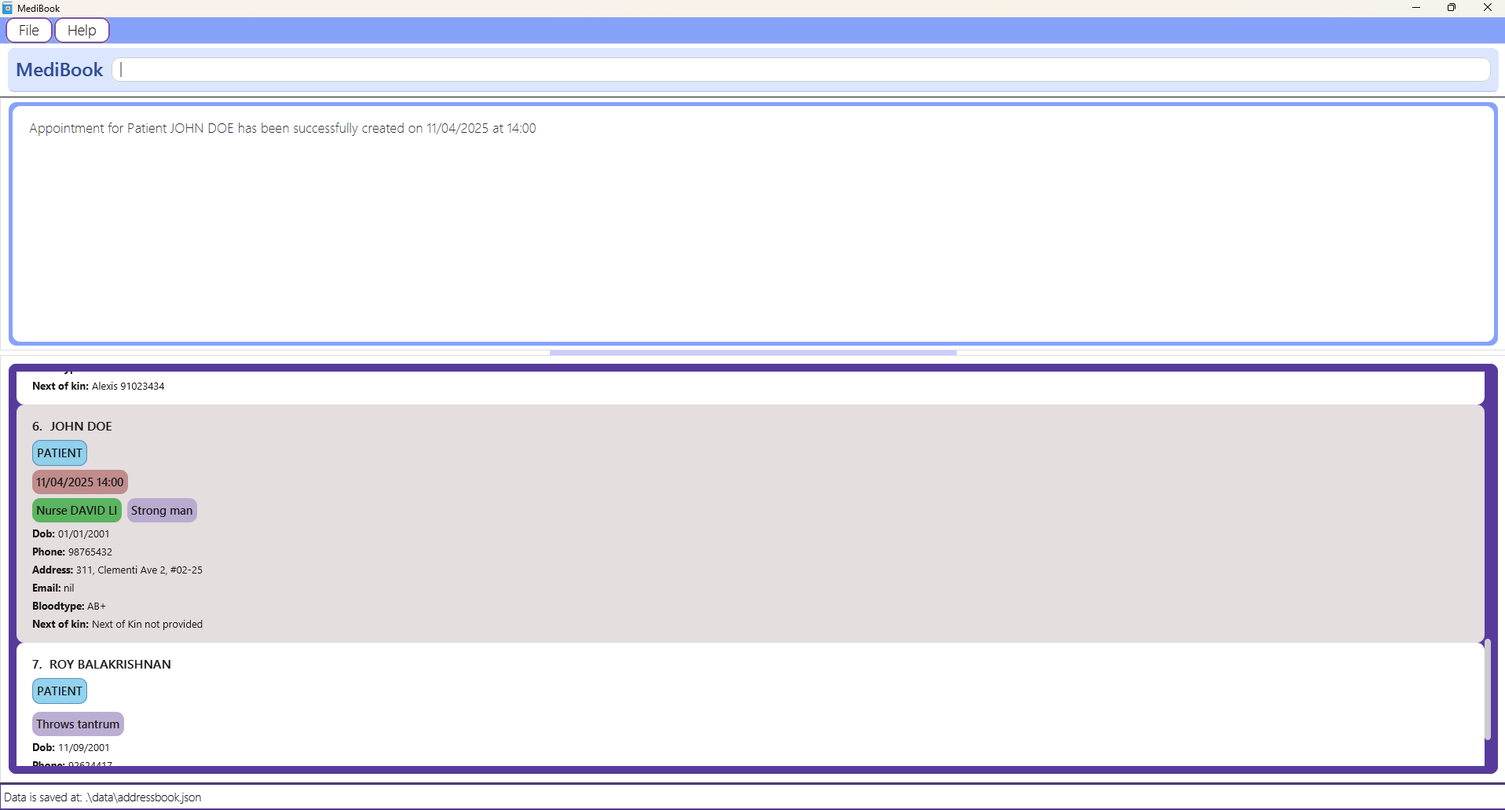
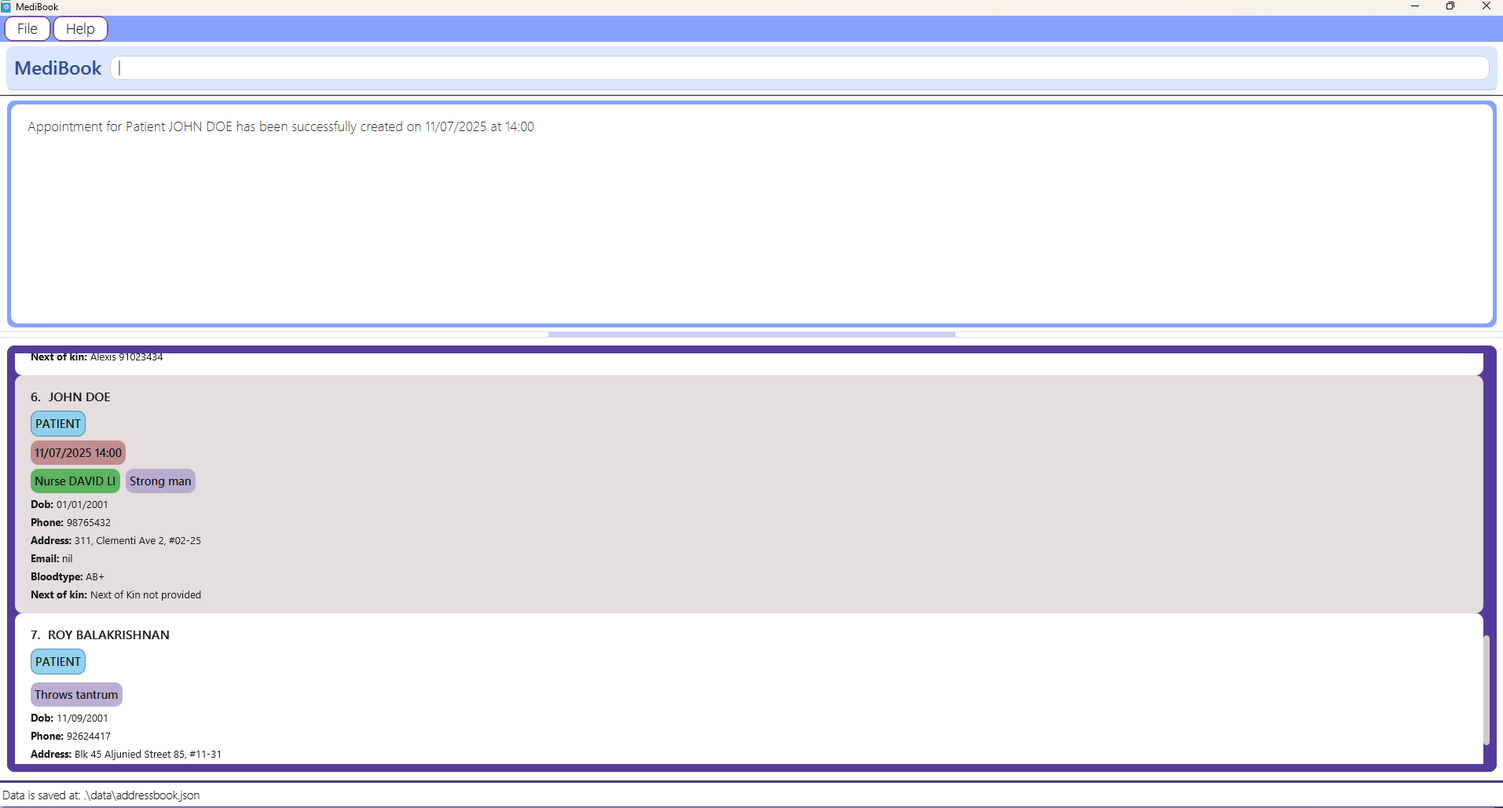
Edit user guide

Changed region(s): [[0.0, 0.3732, 1.0, 1.0], [0.0, 0.0, 1.0, 0.1866], [0.9869, 0.9018, 1.0, 0.9329]]

diff --git a/docs/UserGuide.md b/docs/UserGuide.md
@@ -7,7 +7,7 @@ title: User Guide
 
 MediBook is a **desktop app for private nurse center managers, to manage patient and nurse records, optimized for use via a Command Line Interface (CLI)**, while still offering the benefits of a Graphical User Interface (GUI).
 
-Designed for speed and efficiency, **MediBook** empowers private nurse centres to:
+Designed for speed and efficiency, **MediBook** empowers private nurse managers to:
 - Assign nurses to patients
 - Retrieve patient and nurse information
 - Manage checkup sessions and medical history of patients
@@ -17,6 +17,10 @@ All within a user-friendly interface that is faster than traditional pen-and-pap
 ## Using this User Guide
 
 This user guide is designed to help you get started with **MediBook**, and to provide a simple and concise reference if you need any help while using the app. You may click on the words in blue to jump directly to the relevant section of the user guide.
+
+> ⚠ **Note:** The word `person` in this user guide refers to both patients and nurses, unless otherwise specified.
+
+> 💡**Tip**: If this is your **first time** using Medibook, we recommend running the command `list` before and after running any commands to get the desired output.
 
 To get an overview of the guide, you can refer to the [Table of contents](#table-of-contents) below.
 
@@ -91,34 +95,37 @@ To get an overview of the guide, you can refer to the [Table of contents](#table
 <span style="display: block; text-align: center; margin: 0;">MediBook Start-Up Graphical User Interface</span>
 
 
-5. Type the command in the command box and press Enter to execute it. e.g. typing **`help`** and pressing Enter will open the help window.<br>
+5. Type the command in the command box and press Enter to run it. e.g. typing **`help`** and pressing Enter will open the help window.<br>
    Some example commands you can try:
 
-   * `list` : Lists all contacts.
+   * `help` : Opens the help window.
 
-   * `add n/John Doe dob/01/01/2001 p/98765432 e/johnd@example.com a/311, Clementi Ave 2, #02-25 b/AB+ ap/Patient nok/Jane 91234567 t/Big Boy mh/High Blood Pressure` : Adds a contact named `John Doe` to MediBook.
+   * `add n/John Doe dob/01/01/2001 p/98765432 a/311, Clementi Ave 2, #02-25 b/AB+ ap/Patient t/Strong man` : Adds a person named `John Doe` to MediBook.
 
-   * `edit 2 b/O+` : Edits the blood type of the 2nd contact shown in the current list to O+.
+   * `list` : Lists all persons in MediBook.
 
-   * `delete 3` : Deletes the 3rd contact shown in the current list.
+   * `edit 1 p/8549 9584 b/O+` : Edits the phone number and blood type of the 1st person to be `8549 9584` and `O+` respectively.
 
-   * `assign 1 2`: Assigns the patient at index 1 to the nurse at index 2 shown in the current list.
+   * `assign 6 4`: Assigns the patient at index 6 to the nurse at index 4 in the currently shown list.
 
-   * `assign delete john doe 3` : Removes assigned nurse John Doe from the patient at index 3.
+   * `assign delete David Li 6` : Removes assigned nurse David Li from the patient at index 6.
 
-   * `find j` : Finds all contacts whose names start contains the letter 'j'.
+   * `find alex david` : Finds all person whose names contains `alex` or `david`.
 
-   * `find patient of nurse 1` : Finds the patients assigned to the nurse at index 1 of the currently shown list.
+   * `find patient of nurse 4` : Finds the patients assigned to the nurse at index 4 of the currently shown list.
 
-   * `find nurse of patient 2` : Finds the nurses assigned to the patient at index 2 on the currently shown list.
+   * `find nurse of patient 6` : Finds the nurses assigned to the patient at index 6 on the currently shown list.
 
-   * `schedule add for patient 2 25/05/2025 1100` : Schedules a check-up for the patient shown at the 2nd index of the currently shown list at the given date and time.
+   * `schedule add for patient 6 11/07/2025 1400` : Schedules a check-up for the patient shown at the 6th index of the currently shown list at the given date and time.
 
-   * `schedule delete for patient 2 25/05/2025 1100` : Deletes a check-up for the patient shown at the 2nd index of the list at the given date and time.
+   * `schedule delete for patient 6 11/07/2025 1400` : Deletes a check-up for the patient shown at the 6th index of the currently shown list at the given date and time.
 
-   * `view 4` : Displays the medical history of the person at the index 4 in the current list. If the person is a patient with medical history, the medical history will also be shown.
+   * `view 7` : Displays the details of the person at the index 7 in the currently shown list.
+   If the person is a patient with medical history, the medical history will also be shown.
 
-   * `clear` : Deletes all contacts.
+   * `delete 2` : Deletes the 2nd person shown in the currently shown list.
+
+   * `clear` : Deletes all persons in MediBook.
 
    * `exit` : Exits the app.
 
@@ -133,19 +140,19 @@ To get an overview of the guide, you can refer to the [Table of contents](#table
 
 This section provides an overview of all the attributes a person in MediBook can have, including whether they're required, what format they should follow, and any special notes.
 
-| **Attribute**    | **Prefix** | **Required?** | **Valid Format**                                                                                                                                                                                                                                                       | **Example**                            |
-|------------------|------------|---------------|------------------------------------------------------------------------------------------------------------------------------------------------------------------------------------------------------------------------------------------------------------------------|----------------------------------------|
-| Name             | `n/`       | ✅ Yes         | - Alphabetical<br/>- **Non consecutive** special characters (hyphens, slash, apostrophes)<br/>- Spaces<br/>- Cannot start or end with a special character<br/>- Case-insensitive                                                                                       | E.g., `Joh'n-S/O-Doe`                  |
-| Date of Birth    | `dob/`     | ✅ Yes         | `dd/mm/yyyy`                                                                                                                                                                                                                                                           | E.g., `11/11/2003`                     |
-| Phone Number     | `p/`       | ✅ Yes         | - Max allowable is 17 digits<br/>- Spaces are allowed, but each group requires min 3 digits <br/>- Only numericals and spaces are allowed, no other symbols are allowed                                                                                                | E.g., `1234 567 890`                   |
-| Address          | `a/`       | ✅ Yes         | -  Free text<br/>- Case-sensitive                                                                                                                                                                                                                                      | E.g., `10 NUS Road, #03-21`            |
-| Blood Type       | `b/`       | ✅ Yes         | - Standard blood group types <br/>- Case-insensitive                                                                                                                                                                                                                   | E.g., `A+`, `AB-`, etc.                |
-| Appointment Type | `ap/`      | ✅ Yes         | - Appointment type of personnel <br/>- Case-insensitive                                                                                                                                                                                                                | E.g., `Nurse` or `Patient`             |
-| Email            | `e/`       | ❌ Optional    | - `local-part@domain.com` <br/>- Local-part (min 2 characters) with special characters (plus, underscore, dot, hyphen) <br/>- Local-part must start with alphanumeric character <br/>- Domain (min 1 character) <br/>- `com` can be replaced with minimum 2 characters | E.g., `john@example.com`               |
-| Next of Kin      | `nok/`     | ❌ Optional    | - `Name Phone` <br/>- A space is required between `Name` and `Phone` <br/>- `Name` Same format constraints as the name attribute above <br/>- `Phone` Same format constraints as the phone number attribute above <br/>- Only one Next of Kin allowed                  | E.g., `Jane 91234567`                  |
-| Tags             | `t/`       | ❌ Optional    | - Only alphanumeric and spaces allowed <br/>- Case-sensitive <br/>- Multiple tags allowed <br/>- [Colour based](#Colour-Legend)                                                                                                                                        | E.g., `2 Smart`                        |
-| Medical History  | `m/`       | ❌ Optional*   | - Alphanumerical and spaces <br/>- Special characters (commas, hyphens, slash, rounded brackets, colon)<br/>- Only allowed for **patients** <br/>- Multiple medical histories allowed                                                                                  | E.g., `(Very, sick): - urgent/needy12` |
-| Checkups         | *(N/A)*    | ❌ Optional    | Managed via `schedule` command <br/>- Each checkup is fixed 30 minutes <br/>- Checkups cannot be scheduled in the past.                                                                                                                                                | Not included in `add` command          |
+| **Attribute**    | **Prefix** | **Required?** | **Valid Format**                                                                                                                                                                                                                                                       | **Example**                             |
+|------------------|------------|---------------|------------------------------------------------------------------------------------------------------------------------------------------------------------------------------------------------------------------------------------------------------------------------|-----------------------------------------|
+| Name             | `n/`       | ✅ Yes         | - Alphabetical<br/>- **Non consecutive** special characters (hyphens, slash, apostrophes)<br/>- Spaces<br/>- Cannot start or end with a special character<br/>- Case-insensitive                                                                                       | E.g., `Joh'n-S/O-Doe`                   |
+| Date of Birth    | `dob/`     | ✅ Yes         | `dd/mm/yyyy`                                                                                                                                                                                                                                                           | E.g., `11/11/2003`                      |
+| Phone Number     | `p/`       | ✅ Yes         | - Max allowable is 17 digits<br/>- Spaces are allowed, but each group requires min 3 digits <br/>- Only numericals and spaces are allowed, no other symbols are allowed                                                                                                | E.g., `1234 567 890`                    |
+| Address          | `a/`       | ✅ Yes         | -  Free text<br/>- Case-sensitive                                                                                                                                                                                                                                      | E.g., `10 NUS Road, #03-21`             |
+| Blood Type       | `b/`       | ✅ Yes         | - Standard blood group types <br/>- Case-insensitive                                                                                                                                                                                                                   | E.g., `A+`, `AB-`, etc.                 |
+| Appointment Type | `ap/`      | ✅ Yes         | - Appointment type of personnel <br/>- Case-insensitive                                                                                                                                                                                                                | E.g., `Nurse` or `Patient`              |
+| Email            | `e/`       | ❌ Optional    | - `local-part@domain.com` <br/>- Local-part (min 2 characters) with special characters (plus, underscore, dot, hyphen) <br/>- Local-part must start with alphanumeric character <br/>- Domain (min 1 character) <br/>- `com` can be replaced with minimum 2 characters | E.g., `john@example.com`                |
+| Next of Kin      | `nok/`     | ❌ Optional    | - `Name Phone` <br/>- A space is required between `Name` and `Phone` <br/>- `Name` Same format constraints as the name attribute above <br/>- `Phone` Same format constraints as the phone number attribute above <br/>- Only one Next of Kin allowed                  | E.g., `Jane 91234567`                   |
+| Tags             | `t/`       | ❌ Optional    | - Only alphanumeric and spaces allowed <br/>- Case-sensitive <br/>- Multiple tags allowed <br/>- [Colour based](#Colour-Legend)                                                                                                                                        | E.g., `2 Smart`                         |
+| Medical History  | `m/`       | ❌ Optional*   | - Alphanumerical and spaces <br/>- Special characters (commas, hyphens, slash, rounded brackets, colon)<br/>- Only allowed for **patients** <br/>- Multiple medical histories allowed                                                                                  | E.g., `(Very, sick): - urgent/needy12`  |
+| Checkups         | *(N/A)*    | ❌ Optional    | Managed via `schedule` command <br/>- Each checkup is fixed 30 minutes <br/>- Checkups cannot be scheduled in the past.                                                                                                                                                | Not included in `add` and `edit` command |
 
 > ⚠ **Note:** Optional fields are marked with square brackets in command formats for readability. **Do not include square brackets in your actual command input.**
 > ✅ Correct: `e/john@example.com`
@@ -186,20 +193,20 @@ This section provides an overview of all the attributes a person in MediBook can
 Quick Navigation: 
 [Viewing Help](#viewing-help--help) •
 [Adding a person](#adding-a-person--add) •
-[Listing all persons](#listing-persons--list) •
+[Listing persons](#listing-persons--list) •
 [Editing a person](#editing-a-person--edit) •
-[Locating by name](#locating-persons--find) •
-[Finding patients](#finding-patient--find-patient-of-nurse-) •
+[Assigning nurse to a patient](#assign-a-nurse-to-a-patient--assign) •
+[Delete nurse assignment from patient](#delete-nurse-assignment-from-a-patient--assign-delete) •
+[Locating persons](#locating-persons--find) •
+[Finding patient](#finding-patient--find-patient-of-nurse-) •
 [Finding nurse](#finding-nurse--find-nurse-of-patient) •
-[Deleting](#deleting-a-person--delete) •
+[Schedule checkups](#schedule-checkups--schedule-add-for-patient--schedule-delete-for-patient) •
+[Viewing nurse or patient](#viewing-a-nurse-or-patient--view) •
+[Deleting person](#deleting-a-person--delete) •
 [Clearing all entries](#clearing-all-entries--clear) •
 [Exiting program](#exiting-the-program--exit) •
-[Assigning nurse](#assign-a-nurse-to-a-patient--assign) •
-[Delete nurse assignment](#delete-nurse-assignment-from-a-patient--assign-delete) •
-[Schedule checkups](#schedule-checkups--schedule-add-for-patient--schedule-delete-for-patient) •
-[Viewing person](#viewing-a-nurse-or-patient--view) •
 [Saving data](#saving-the-data) •
-[Editing data file](#editing-the-data-file)
+[Editing data file](#editing-the-data-file) •
 
 ### Viewing help : `help`
 
@@ -288,6 +295,7 @@ Edits an existing person's information in MediBook.
 
 #### Examples
 
+*  `edit 1 p/8549 9584 b/O+` Edits the phone number and blood type of the 1st person to be `8549 9584` and `O+` respectively.
 *  `edit 1 p/91234567 e/johndoe@example.com` Edits the phone number and email address of the 1st person to be `91234567` and `johndoe@example.com` respectively.
 *  `edit 2 n/Betsy Crower t/ mh/` Edits the name of the 2nd person to be `Betsy Crower` and clears all existing tags and medical history.
 * `edit 3 t/one t/two mh/one mh/two` Edits the tags and medical history of the person at the third index to the respective values.
@@ -341,7 +349,7 @@ Removes a specified assigned nurse from a specified patient.
 
 #### Examples
 
-* `assign delete john doe 2` removes the assignment of Nurse JOHN DOE from the patient at index 2.
+* `assign delete David Li 6` removes the assignment of Nurse JOHN DOE from the patient at index 2.
 
 [🔙 Back to Features](#features)
 
@@ -352,11 +360,11 @@ Finds persons whose names contain any of the given keywords or prefixes.
 #### Details 
 
 * The search is case-insensitive. e.g. `hans` will match `HANS`
-* The order of the keywords does not matter. e.g. `Hans Bo` will match `Bo Hans`
+* The order of the keywords does not matter. e.g. `Hans Bo` will match `BO HANS`
 * Only the name is searched.
 * Any name containing the prefix will be matched e.g. `Han` and `ns` will match `HANS`
 * Persons matching at least one keyword will be returned (i.e. `OR` search).
-  e.g. `Hans Bo` will return `Hans Gruber`, `Bo Yang`
+  e.g. `Hans Bo` will return `HANS GRUBER`, `BO YANG`
 
 #### Format 
 
@@ -369,9 +377,9 @@ Finds persons whose names contain any of the given keywords or prefixes.
 
 #### Examples
 
-* `find alex david` returns `Alex Yeoh`, `David Li`
-* `find John` returns `john` and `John Doe`
-* `find al` returns `Alex Yeoh` and `Sally`
+* `find alex david` returns `ALEX YEOH`, `DAVID LI`
+* `find John` returns `jOHN` and `JOHN DOE`
+* `find al` returns `ALEX YEOH` and `SALLY`
 
 ![result for 'find alex david'](images/findAlexDavidResult.png)
 <span style="display: block; text-align: center; margin: 0;">`find alex david` Command Execution</span>
@@ -400,7 +408,7 @@ Finds patients assigned under a specified nurse.
 * `find patient of nurse 4` returns e.g: Patient(s) assigned to nurse DAVID LI: JOHN DOE.
 * `find patient of nurse 3` returns e.g: No patient assigned to the nurse at index 3. 
 
-![result for 'find patient of nurse 3'](images/FindNoPatient.png)
+![result for 'find patient of nurse 3'](images/FindPatientOfNurse.png)
 <span style="display: block; text-align: center; margin: 0;">`find patient of nurse 4` Command Execution</span>
 
 [🔙 Back to Features](#features)
@@ -472,11 +480,11 @@ Schedules or deletes checkup sessions for patients.
 
 #### Examples
 
-*   `schedule add for patient 6 11/04/2025 1400`: Schedules a checkup for the patient at index 6 on April 11, 2025, at 14:00 PM. 
-*   `schedule delete for patient 6 11/04/2025 1400`: Deletes a checkup for the patient at index 6 on April 11, 2025, at 14:00 PM.
+*   `schedule add for patient 6 11/07/2025 1400`: Schedules a checkup for the patient at index 6 on July 11, 2025, at 14:00 PM. 
+*   `schedule delete for patient 6 11/07/2025 1400`: Deletes a checkup for the patient at index 6 on July 11, 2025, at 14:00 PM.
 
-![result for 'schedule add for patient 6 11/04/2025 1400'](images/ScheduleCheckupForPatient.png)
-<span style="display: block; text-align: center; margin: 0;">`schedule add for patient 6 11/04/2025 1400` Command Execution</span>
+![result for 'schedule add for patient 6 11/07/2025 1400'](images/ScheduleCheckupForPatient.png)
+<span style="display: block; text-align: center; margin: 0;">`schedule add for patient 6 11/07/2025 1400` Command Execution</span>
 
 [🔙 Back to Features](#features)
 
@@ -497,10 +505,10 @@ Displays details of specified person. If specified person is a patient with medi
 
 #### Example
 
-* `view 6`: Views the 6th contact in the list and displays the person's details. If the person is a patient and has medical history, then medical history will be shown.
+* `view 7`: Views the 7th person in the list and displays the person's details. If the person is a patient and has medical history, then medical history will be shown.
 
-![result for 'view 6'](images/ViewMedicalHistory.png)
-<span style="display: block; text-align: center; margin: 0;">`view 6` Command Execution</span>
+![result for 'view 7'](images/ViewMedicalHistory.png)
+<span style="display: block; text-align: center; margin: 0;">`view 7` Command Execution</span>
 
 [🔙 Back to Features](#features)
 
@@ -544,6 +552,9 @@ Exits the program.
 
 [🔙 Back to Features](#features)
 
+--------------------------------------------------------------------------------------------------------------------
+
+
 ## Saving the data
 
 MediBook data are saved in the hard disk automatically after any command that changes the data. There is no need to save manually.
@@ -555,7 +566,7 @@ MediBook data are saved in the hard disk automatically after any command that ch
 MediBook data are saved automatically as a JSON file `[JAR file location]/data/addressbook.json`. Advanced users are welcome to update data directly by editing that data file.
 
 **Caution:**
-If your changes to the data file makes its format invalid, MediBook will discard all data and start with an empty data file at the next run. Hence, it is recommended to take a backup of the file before editing it.<br>
+If your manual changes to the addressbook.json file makes its format invalid, MediBook will discard all data and start with an empty data file at the next run. Hence, it is recommended to take a backup of the file before editing it.<br>
 Furthermore, certain edits can cause the MediBook to behave in unexpected ways (e.g., if a value entered is outside of the acceptable range). Therefore, edit the data file only if you are confident that you can update it correctly.
 
 [🔙 Back to Features](#features)
@@ -569,6 +580,9 @@ Furthermore, certain edits can cause the MediBook to behave in unexpected ways (
 **Q**: How do I check my current Java version?<br>
 **A**: Open a command terminal and type `java --version`. If you see a version number, Java is installed.
 If not, you need to install Java.
+
+**Q**: What is the command terminal?<br>
+**A**: The command terminal is a program that allows you to interact with your computer using text commands. For Windows, you can use `Command Prompt` or `PowerShell`. For Mac, you can use `Terminal`. You can find the command terminal by searching for it in your computer's search bar. To find out more, you may read this [article](https://www.freecodecamp.org/news/command-line-for-beginners/).
 
 **Q**: How do I transfer my data to another Computer?<br>
 **A**: Install the app in the other computer and overwrite the empty data file it creates with the file that contains the data of your previous AddressBook home folder.
@@ -589,23 +603,29 @@ If not, you need to install Java.
 
 ## Command summary
 
-| **Action**                                                                                | **Format, Examples**                                                                                                                                                                                                                                                       |
-|-------------------------------------------------------------------------------------------|----------------------------------------------------------------------------------------------------------------------------------------------------------------------------------------------------------------------------------------------------------------------------|
-| [**Add**](#adding-a-person--add)                                                          | `add n/NAME dob/DOB p/PHONE_NUMBER a/ADDRESS b/BLOOD_TYPE ap/APPOINTMENT [e/EMAIL] [nok/NEXT_OF_KIN_NAME_PHONE] [t/TAG]… [mh/MEDICAL_HISTORY]…`<br> e.g., `add n/John Doe dob/01/01/2001 p/98765432 e/johnd@example.com a/John street, block 123, #01-01 b/AB+ ap/Nurse` |
-| [**Clear**](#clearing-all-entries--clear)                                                 | `clear`                                                                                                                                                                                                                                                                    |
-| [**Delete**](#deleting-a-person--delete)                                                  | `delete INDEX`<br> e.g., `delete 3`                                                                                                                                                                                                                                        |
-| [**Edit**](#editing-a-person--edit)                                                       | `edit INDEX [n/NAME] [dob/DOB] [p/PHONE] [e/EMAIL] [a/ADDRESS] [b/BLOOD_TYPE] [ap/APPOINTMENT] [nok/NEXT_OF_KIN_NAME_PHONE] [t/TAG]… [mh/MEDICAL_HISTORY]…` <br/> e.g., `edit 2 n/James Lee e/jameslee@example.com`                                                      |
-| [**Find**](#locating-persons--find)                                                       | `find KEYWORD [MORE_KEYWORDS]`<br> e.g., `find James Jake`                                                                                                                                                                                                                 |
-| [**Find Patient**](#finding-patient--find-patient-of-nurse-)                              | `find patient of nurse INDEX`<br> e.g., `find patient of nurse 1`                                                                                                                                                                                                          |
-| [**Find Nurse**](#finding-nurse--find-nurse-of-patient)                                   | `find nurse of patient INDEX`<br> e.g., `find nurse of patient 2`                                                                                                                                                                                                          |
-| [**List**](#listing-persons--list)                                                        | `list` `list nurse` `list patient` `list checkup`                                                                                                                                                                                                                          |
-| [**Help**](#viewing-help--help)                                                           | `help`                                                                                                                                                                                                                                                                     |
-| [**Assign**](#assign-a-nurse-to-a-patient--assign)                                        | `assign PATIENT_INDEX NURSE_INDEX`<br> e.g., `assign 2 1`                                                                                                                                                                                                                  |
-| [**Assign Delete**](#delete-nurse-assignment-from-a-patient--assign-delete)               | `assign delete NURSE_NAME PATIENT_INDEX`<br> e.g., `assign delete john doe 2`                                                                                                                                                                                              |
-| [**Schedule**](#schedule-checkups--schedule-add-for-patient--schedule-delete-for-patient) | `schedule add for patient PATIENT_INDEX DATE_TIME`<br> e.g., `schedule add for patient 2 01/01/2025 1100`<br>`schedule delete for patient PATIENT_INDEX DATE_TIME`<br> e.g., `schedule delete for patient 2 01/01/2025 1100`                                               |
-| [**View**](#viewing-a-nurse-or-patient--view)                                             | `view INDEX`<br> e.g., `view 2`                                                                                                                                                                                                                                            |
+| **Action**                                                                                | **Format, Examples**                                                                                                                                                                                                                                               |
+|-------------------------------------------------------------------------------------------|--------------------------------------------------------------------------------------------------------------------------------------------------------------------------------------------------------------------------------------------------------------------|
+| [**Help**](#viewing-help--help)                                                           | `help`                                                                                                                                                                                                                                                             |
+| [**Add**](#adding-a-person--add)                                                          | `add n/NAME dob/DOB p/PHONE_NUMBER a/ADDRESS b/BLOOD_TYPE ap/APPOINTMENT [e/EMAIL] [nok/NEXT_OF_KIN_NAME_PHONE] [t/TAG]… [mh/MEDICAL_HISTORY]…`<br> e.g., `add n/John Doe dob/01/01/2001 p/98765432 a/311, Clementi Ave 2, #02-25 b/AB+ ap/Patient t/Strong man` |
+| [**List**](#listing-persons--list)                                                        | `list` `list nurse` `list patient` `list checkup`                                                                                                                                                                                                                  |
+| [**Edit**](#editing-a-person--edit)                                                       | `edit INDEX [n/NAME] [dob/DOB] [p/PHONE] [e/EMAIL] [a/ADDRESS] [b/BLOOD_TYPE] [ap/APPOINTMENT] [nok/NEXT_OF_KIN_NAME_PHONE] [t/TAG]… [mh/MEDICAL_HISTORY]…` <br/> e.g., `edit 1 p/8549 9584 b/O+`                                                                |
+| [**Assign**](#assign-a-nurse-to-a-patient--assign)                                        | `assign PATIENT_INDEX NURSE_INDEX`<br> e.g., `assign 6 4`                                                                                                                                                                                                          |
+| [**Assign Delete**](#delete-nurse-assignment-from-a-patient--assign-delete)               | `assign delete NURSE_NAME PATIENT_INDEX`<br> e.g., `assign delete David Li 6`                                                                                                                                                                                      |
+| [**Find**](#locating-persons--find)                                                       | `find KEYWORD [MORE_KEYWORDS]`<br> e.g., `find James Jake`                                                                                                                                                                                                         |
+| [**Find Patient**](#finding-patient--find-patient-of-nurse-)                              | `find patient of nurse INDEX`<br> e.g., `find patient of nurse 4`                                                                                                                                                                                                  |
+| [**Find Nurse**](#finding-nurse--find-nurse-of-patient)                                   | `find nurse of patient INDEX`<br> e.g., `find nurse of patient 6`                                                                                                                                                                                                  |
+| [**Schedule**](#schedule-checkups--schedule-add-for-patient--schedule-delete-for-patient) | `schedule add for patient PATIENT_INDEX DATE_TIME`<br> e.g., `schedule add for patient 6 11/07/2025 1400`<br>`schedule delete for patient PATIENT_INDEX DATE_TIME`<br> e.g., `schedule delete for patient 6 11/07/2025 1400`                                       |
+| [**View**](#viewing-a-nurse-or-patient--view)                                             | `view INDEX`<br> e.g., `view 7`                                                                                                                                                                                                                                    |
+| [**Delete**](#deleting-a-person--delete)                                                  | `delete INDEX`<br> e.g., `delete 2`                                                                                                                                                                                                                                |
+| [**Clear**](#clearing-all-entries--clear)                                                 | `clear`                                                                                                                                                                                                                                                            |
+| [**Exit**](#exiting-the-program--exit)                                                    | `exit`                                                                                                                                                                                                                                                             |
+
+
 
 [🔝 Back to Table of Contents](#table-of-contents)
+
+--------------------------------------------------------------------------------------------------------------------
+
 
 ## Duplicate Policy
 
@@ -616,6 +636,9 @@ Example:
 - Using `add` command to add a person with the same `Name`, `Date of Birth` and `Phone Number` as an existing person will result in a warning message.
 
 [🔝 Back to Table of Contents](#table-of-contents)
+
+--------------------------------------------------------------------------------------------------------------------
+
 
 ## Colour Legend
 

diff --git a/docs/DeveloperGuide.md b/docs/DeveloperGuide.md
@@ -665,6 +665,12 @@ These are some features / improvements our team has planned to implement in the 
 7. Warning messages will be displayed when scheduling checkups for patients who do not have any assigned nurses.
    * Currently, users are allowed to schedule checkups for patients even if the patient does not have any nurses assigned to them.
    * For future enhancements, a warning will be displayed to alert the user that the patient they are scheduling a checkup for does not have any assigned nurses.
+8. Nearly similar person `edit` handling is not consistent due to the search functionality.
+   * A nearly identical person refers to a person that has all of the same person attributes as another person, except
+   for any one of these attributes: `name`, `phone number` and `date of birth`.
+   * Currently, the `edit` command **may** not work if it is applied to a nearly similar person, that is not the first person in line among the nearly identical person, shown in the current list. 
+   * `edit` will tend to edit the first person in line among the nearly identical persons, instead of the one that is
+   intended to be edited (i.e. the nearly identical person not first in line).
 
 ## **Appendix: Effort**
 
